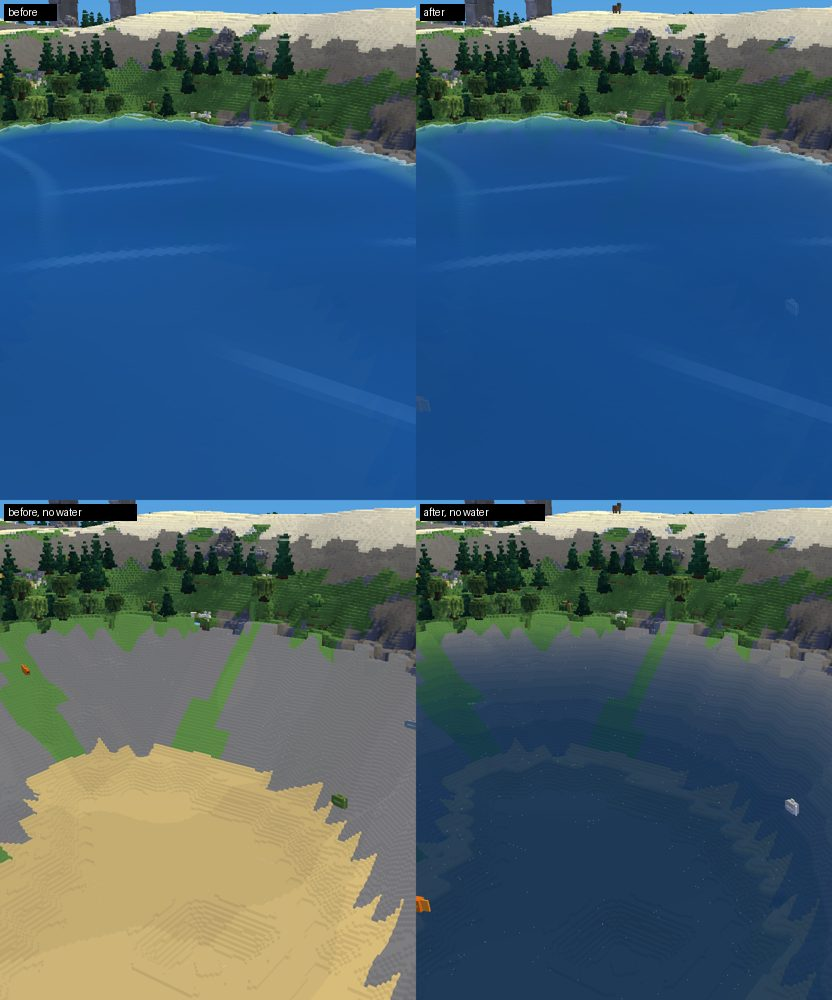
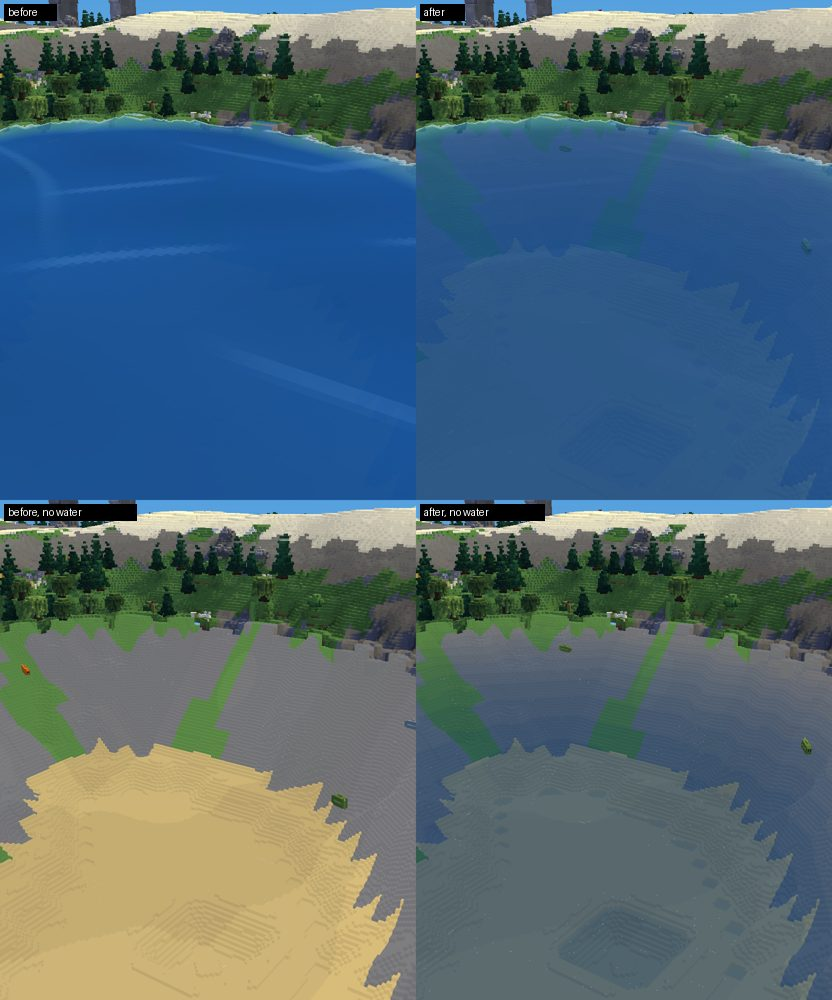
Lakes: variant C, its reference hashes and before/after frames
The land's looks-off reference hashes taken again for variant C (with
lakeShare held at 0 the islands draw main's), and the before/after frames
of docs/visual-checks/lake-floors redone for it.

Claude-Session: https://claude.ai/code/session_01NxvtAnVeeSftkua711EPa8

diff --git a/scripts/terrain-looks-test.ts b/scripts/terrain-looks-test.ts
@@ -25,13 +25,13 @@ export const LOOK_ISLANDS: { name: string; cells: number; seed: number; land: La
 // What main drew, before 5.2.5: land and water hashes of each island, in the order above. Taken
 // again on 19 November: the islands' rivers are curves now (land.ts water()), and a water top beside a
 // wall a hundredth high no longer waves at the corner the wall shares (terrain.ts waterTop). And again
-// the same day: a lake (water above the sea) is drawn clearer and its bed darker with depth
+// the same day: a lake (water above the sea) is drawn clearer and its bed muted and bluer with depth
 // (terrain-fine.ts lakeShare); with lakeShare held at 0 the islands draw the hashes before it
 // (9c62c152/f4c767b5, afdc1f22/a6282c07, 86d5accc/f8ce9657), so nothing else changed.
 const MAIN = [
-  ["a9cbf4a5", "f371372d"],
-  ["beb927af", "a716e6c9"],
-  ["4e734a0d", "56bb0eff"],
+  ["2101d537", "364efaf7"],
+  ["8888c254", "0140ccb6"],
+  ["6198274b", "b57f817c"],
 ];
 
 export const LOOK_SWITCHES = Object.keys(LAND_LOOKS) as (keyof typeof LAND_LOOKS)[];
